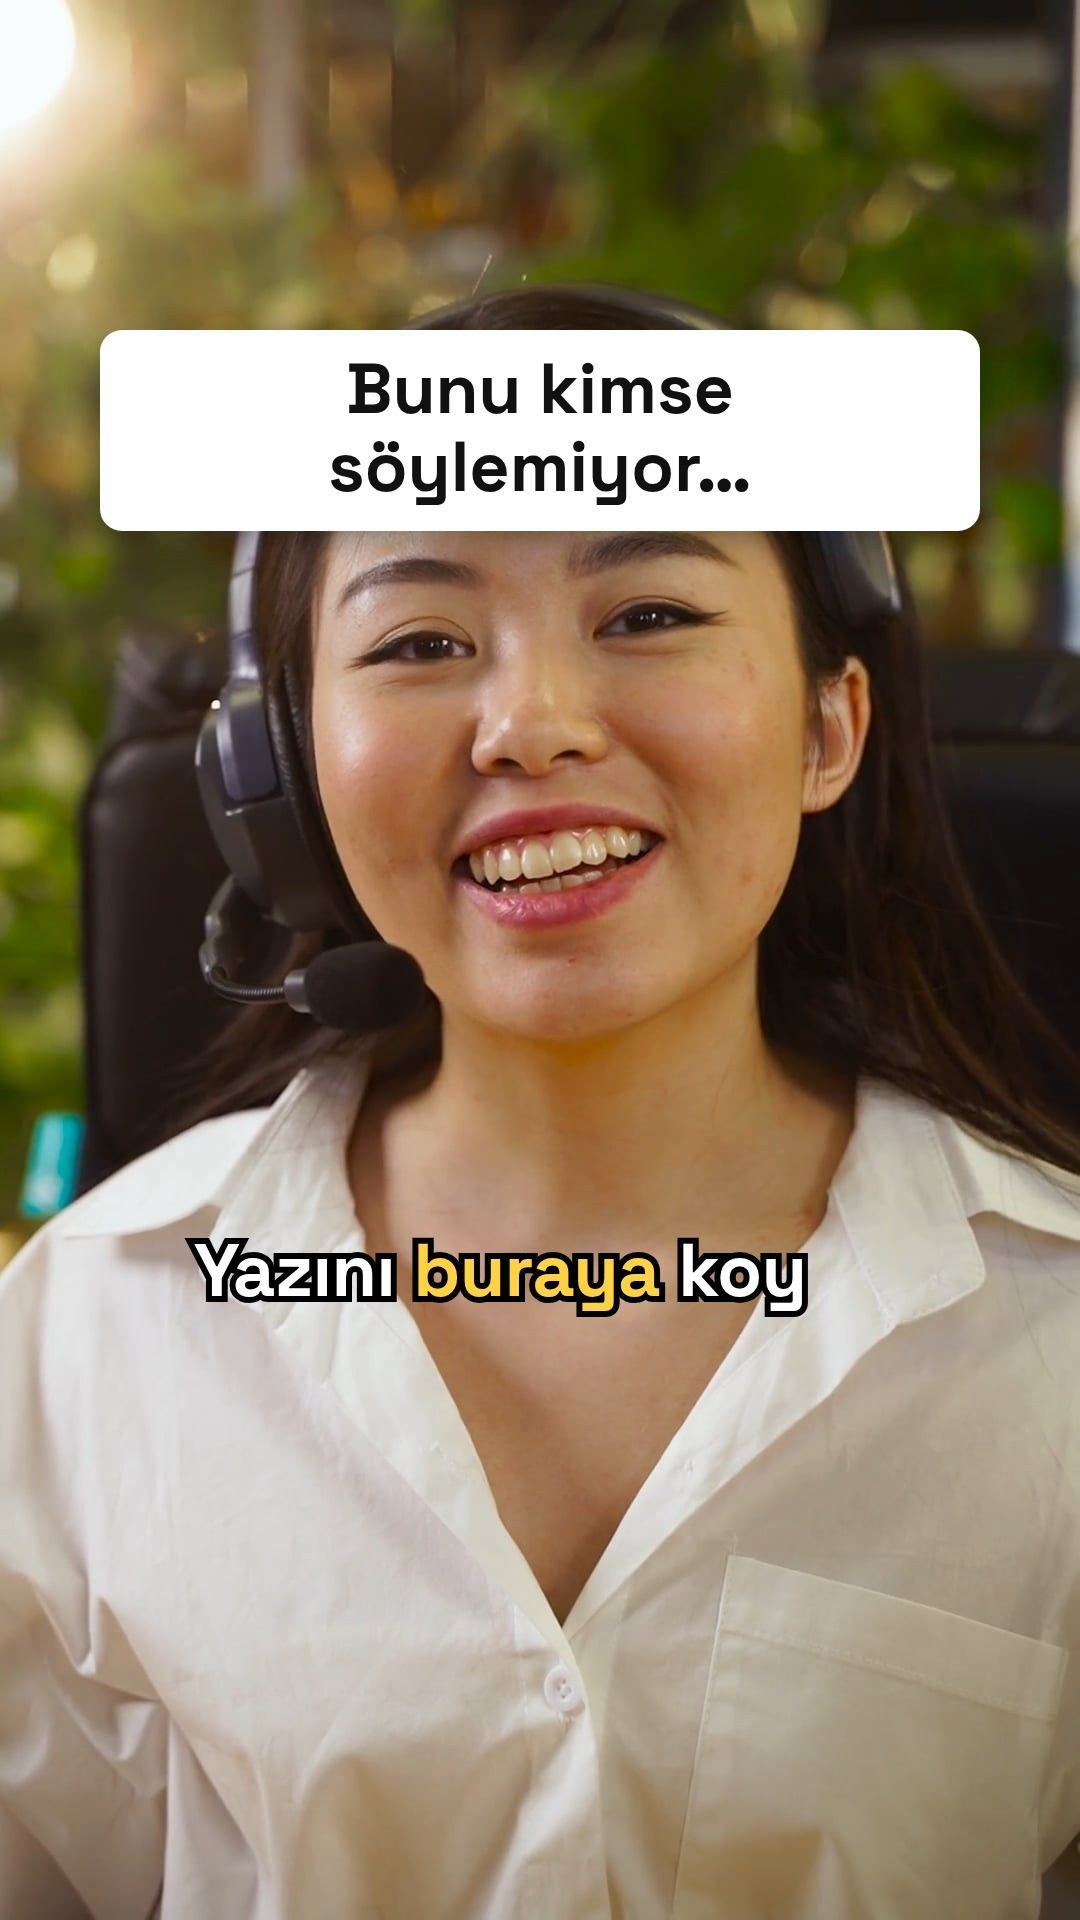
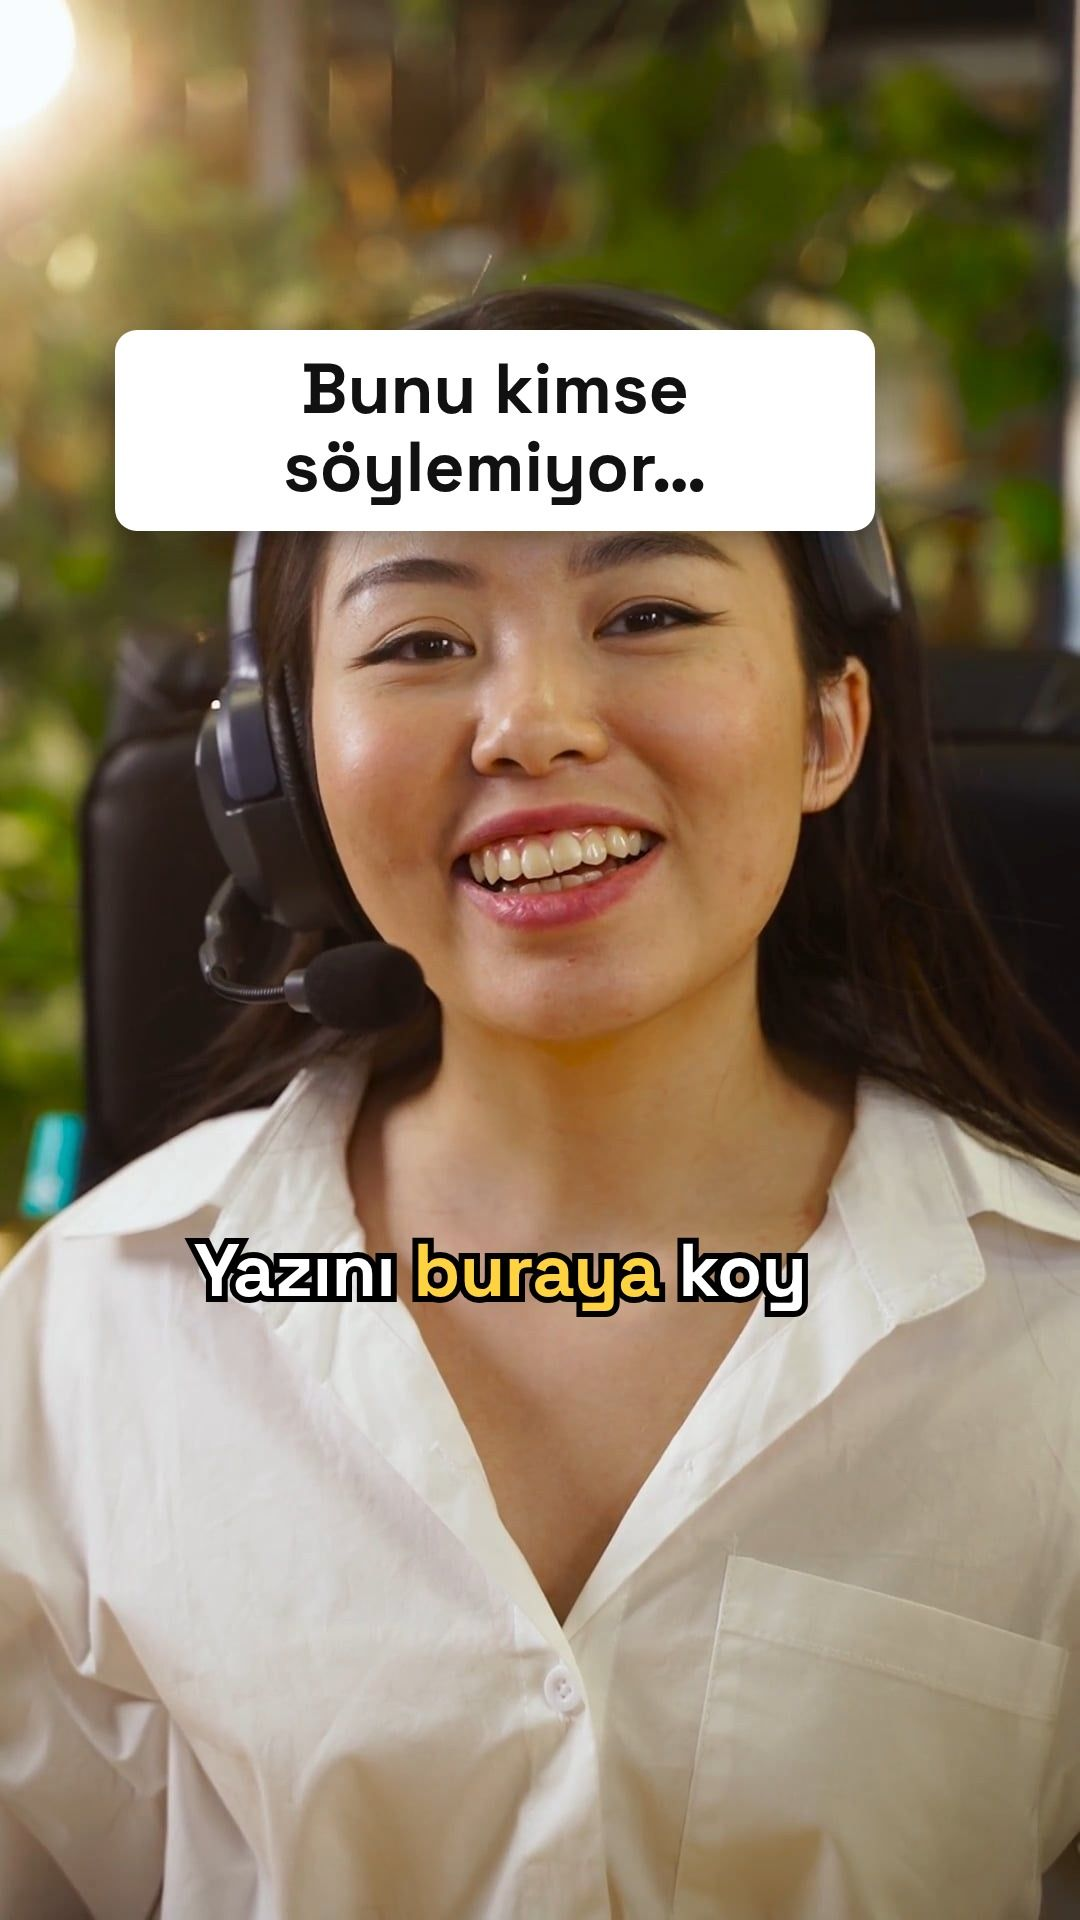
Ana sayfa: 'Kimlerle çalışıyoruz' sektör kartları, iş karuselinde mobil oklar + 1/9 sayaç, medikal iş 2. sırada, düz rakamlar, sade Türkçe, ekipten ara/WhatsApp, ekipman notu, bölge linkleri mobilde kapalı; Araçlar: indir etiketleri + boyut, 'Ne işe yarar' satırı, sarmalanan filtreler, mobil uyumlu 

diff --git a/src/data/araclar.ts b/src/data/araclar.ts
@@ -19,6 +19,9 @@ export interface Arac {
   /** One-line purpose under the H1 on the tool page. */
   purpose: string;
   chips: string[];
+  /** Optional plain-words "what is it for" line on the card, for items whose
+   *  name is jargon (bitrate, SRT, LUT…). Usability test: ~40 y/o visitors. */
+  plain?: string;
 }
 
 export const TUR_LABEL: Record<AracTur, string> = {
@@ -60,6 +63,7 @@ export const ARACLAR: Arac[] = [
     benefit: "Dosya boyutunu önceden bilin",
     purpose: "Süre ve bitrate'ten dosya boyutunu, hedef boyuttan bitrate'i saniyeler içinde hesaplayın.",
     chips: ["Tarayıcıda çalışır", "MB · GB · Mbps", "FFmpeg komutu"],
+    plain: "Videonuz kaç MB olacak, WhatsApp'a ya da siteye sığar mı, önceden görün.",
   },
   {
     slug: "en-boy-orani",
@@ -70,6 +74,7 @@ export const ARACLAR: Arac[] = [
     benefit: "Yatay kaydı dikeye taşıyın",
     purpose: "16:9 kaydınızın 9:16, 4:5, 1:1 ve 3:4'te nasıl kırpılacağını görün, kadrajı ayarlayın.",
     chips: ["Tarayıcıda çalışır", "9:16 · 4:5 · 1:1"],
+    plain: "Yatay çektiğiniz videonun telefon ekranına (dikey) nasıl kırpılacağını gösterir.",
   },
   {
     slug: "altyazi-kontrolu",
@@ -80,6 +85,7 @@ export const ARACLAR: Arac[] = [
     benefit: "SRT hatalarını tek tıkta bulun",
     purpose: "Uzun satır, hızlı okuma, çakışma ve bozuk Türkçe karakterleri bulun; temiz SRT indirin.",
     chips: ["Tarayıcıda çalışır", "SRT · VTT"],
+    plain: "Altyazı dosyanızdaki bozuk harfleri, çok uzun ve çok hızlı satırları bulup düzeltir.",
   },
   {
     slug: "cekim-plani",
@@ -90,6 +96,7 @@ export const ARACLAR: Arac[] = [
     benefit: "Ekibe tek sayfada plan",
     purpose: "Lokasyon, ekip ve saat programını girin; yazdırılabilir, markalı bir çekim planı alın.",
     chips: ["Tarayıcıda çalışır", "Yazdır · PDF · JSON"],
+    plain: "Çekim günü kim, nerede, saat kaçta: ekibe gönderilecek tek sayfalık plan.",
   },
   {
     slug: "cekim-planlayici",
@@ -110,6 +117,7 @@ export const ARACLAR: Arac[] = [
     benefit: "Platforma göre doğru ayar",
     purpose: "YouTube, Vimeo, Reels ve TikTok için 1080p ve 4K export ayarları tek sayfada.",
     chips: ["1080p · 4K", "PDF kopya kâğıdı"],
+    plain: "Videoyu Instagram, YouTube veya TikTok için hangi ayarla kaydedeceğinizi gösterir.",
   },
   {
     slug: "instagram-grid-sablonu",
@@ -140,6 +148,7 @@ export const ARACLAR: Arac[] = [
     benefit: "Çekimi kare kare planlayın",
     purpose: "16:9 ve 9:16 storyboard ile plan listesi; doldurulabilir PDF, Excel, Word ve Notion.",
     chips: ["PDF · Word · Excel", "16:9 · 9:16"],
+    plain: "Videoyu çekmeden önce sahne sahne kâğıda dökmek için boş şablon.",
   },
   {
     slug: "brief-formu",
@@ -180,6 +189,7 @@ export const ARACLAR: Arac[] = [
     benefit: "Kurguya hazır 40 ses",
     purpose: "Whoosh, riser, impact, glitch ve geçiş sesleri; tarayıcıda dinleyin, tek tıkla indirin.",
     chips: ["40 ses · WAV", "Ticari kullanım serbest"],
+    plain: "Videolarda geçişlerde ve vurgularda kullanılacak ücretsiz kısa sesler.",
   },
   {
     slug: "lut-paketi",
@@ -190,6 +200,7 @@ export const ARACLAR: Arac[] = [
     benefit: "Tek adımda tutarlı renk",
     purpose: "Rec.709 görüntü için ten rengini koruyan 5 hafif renk görünümü; önce/sonra karşılaştırmalı.",
     chips: ["5 LUT · .cube", "Premiere · DaVinci · CapCut"],
+    plain: "Videonuzun renk tonunu tek tıkla güzelleştiren hazır renk ayarları.",
   },
 ];
 

diff --git a/src/pages/araclar/_yaratici/tool.css b/src/pages/araclar/_yaratici/tool.css
@@ -75,6 +75,8 @@
 .yt-tpls a:hover, .yt-tpls a:focus-visible { border-color: var(--amber); }
 .yt-tpls img { max-width: 100%; height: auto; border-radius: 0.5rem; background: linear-gradient(160deg, #c98a54, #7b5a8f 55%, #2c3a5c); }
 .yt-tpls small { color: var(--ink-soft); }
+.dl-go { display: inline-flex; align-items: center; justify-content: center; min-height: 44px; padding: 0 1rem; border-radius: 999px; background: var(--amber, #e07a2e); color: #fff; font-weight: 700; font-size: 0.9rem; }
+.dl-hint { margin: 1rem 0 0; }
 .yt-tablewrap { overflow-x: auto; margin-top: 1.2rem; }
 .yt-table { width: 100%; border-collapse: collapse; font-size: 0.95rem; color: var(--ink); }
 .yt-table caption { caption-side: bottom; padding-top: 0.6rem; text-align: left; font-size: 0.85rem; color: var(--ink-soft); }

diff --git a/src/lib/evren.ts b/src/lib/evren.ts
@@ -2,9 +2,12 @@
  * Shared bits of the Evren language used by the header, footer and pages.
  */
 
-const ROMAN = ["I", "II", "III", "IV", "V", "VI", "VII", "VIII", "IX", "X", "XI", "XII", "XIII", "XIV", "XV", "XVI", "XVII", "XVIII", "XIX", "XX"];
-/** Roman numerals for section and list numbering (1 → "I"). */
-export const roman = (n: number) => ROMAN[n - 1] ?? String(n);
+/**
+ * Section and list numbering. Was Roman numerals (I, II…); usability tests
+ * showed visitors couldn't read them, so it now returns plain digits. The
+ * name stays so every caller keeps working.
+ */
+export const roman = (n: number) => String(n);
 
 /**
  * The real (filled) WhatsApp mark — simple-icons, CC0. The site's Icon set

diff --git a/src/lib/filesize.ts b/src/lib/filesize.ts
@@ -1,0 +1,15 @@
+import fs from "node:fs";
+import path from "node:path";
+
+/** Build-time size of a file under public/ ("/araclar/x.png" → "184 KB"), "" if missing. */
+export function publicFileSize(href: string): string {
+  try {
+    const b = fs.statSync(path.join(process.cwd(), "public", decodeURIComponent(href))).size;
+    if (b >= 1024 * 1024) return `${(b / 1024 / 1024).toLocaleString("tr-TR", { maximumFractionDigits: 1 })} MB`;
+    return `${Math.max(1, Math.round(b / 1024))} KB`;
+  } catch {
+    return "";
+  }
+}
+/** "PNG", "SVG", "ZIP"… from a file name. */
+export const fileExt = (f: string) => (f.split(".").pop() ?? "").toUpperCase();

diff --git a/scripts/araclar-kartlar/kartlar.py b/scripts/araclar-kartlar/kartlar.py
@@ -82,8 +82,8 @@ def frame(key, w, h, body="", pos="center", extra=""):
             f'{extra}</style><div class="bg"></div>{body}</html>')
 
 
-def th(key, hook, cap, pos="center", hook_y=330, cap_y=1230):
-    hk = f'<div class="hook" style="top:{hook_y}px">{hook}</div>' if hook else ""
+def th(key, hook, cap, pos="center", hook_y=330, cap_y=1230, hook_style=""):
+    hk = f'<div class="hook" style="top:{hook_y}px;{hook_style}">{hook}</div>' if hook else ""
     cp = f'<div class="cap" style="top:{cap_y}px">{cap}</div>' if cap else ""
     return frame(key, 1080, 1920, hk + cp, pos)
 
@@ -94,7 +94,9 @@ def cover(key, title, pos="center"):
 
 KARE = {
     # 9:16 talking heads with Turkish hook + caption (so UI overlays visibly matter)
-    "dikey-reels": (th("th-reels", "Bunu kimse söylemiyor…", "Yazını <em>buraya</em> koy", "50% 30%"), 1080, 1920),
+    "dikey-reels": (th("th-reels", "Bunu kimse söylemiyor…", "Yazını <em>buraya</em> koy", "50% 30%",
+        # centred on the Reels safe area (x 60–930), so the tool's own sample passes its check
+        hook_style="left:495px;max-width:760px"), 1080, 1920),
     "dikey-tiktok": (th("th-tiktok", "İlk 3 saniye her şey", "Kanca <em>üstte</em> kalsın", "55% 30%"), 1080, 1920),
     # burned-in subtitle the way the tool draws it: white text, soft shadow, translucent box, inside the safe zone
     "dikey-altyazi": (frame("th-altyazi", 1080, 1920, '<div class="sub" style="bottom:620px">Çekim günü sabah<br>altıda başladı.</div>', "40% 40%"), 1080, 1920),

diff --git a/src/content/services/post-produksiyon.md b/src/content/services/post-produksiyon.md
@@ -4,12 +4,12 @@ summary: "Kurgu, renk, ses ve grafiklerle son rötuş."
 order: 3
 features:
   - "Video kurgu"
-  - "Renk düzenleme (color grading)"
-  - "Motion graphics"
+  - "Renk düzenleme"
+  - "Hareketli grafik"
   - "Ses tasarımı"
   - "Görsel efekt (VFX)"
 ---
 
 Çekilen görüntüleri sinematik bir bütüne dönüştürdüğümüz aşama. Kurgu, **renk
-düzenleme**, motion graphics, ses tasarımı ve görsel efekt çalışmalarıyla
+düzenleme**, hareketli grafik, ses tasarımı ve görsel efekt çalışmalarıyla
 hikâyeyi ekranda en güçlü hâline getiriyoruz.

diff --git a/src/content/projects/gebelik-ilk-7-gun.md b/src/content/projects/gebelik-ilk-7-gun.md
@@ -13,7 +13,7 @@ posterAlt: Op. Dr. Duygu Cebecik Özmüş ile hamileliğin ilk 7 günü bilgilen
 youtubeId: BRwrTj7VuAY
 duration: 04:12
 featured: true
-order: 6
+order: 1.2
 ---
 
 Op. Dr. Duygu Cebecik Özmüş ile hazırlanan medikal bilgilendirme serisinin ilk bölümü. Hekim otoritesini koruyan, anlaşılır ve güven veren bir anlatım.
